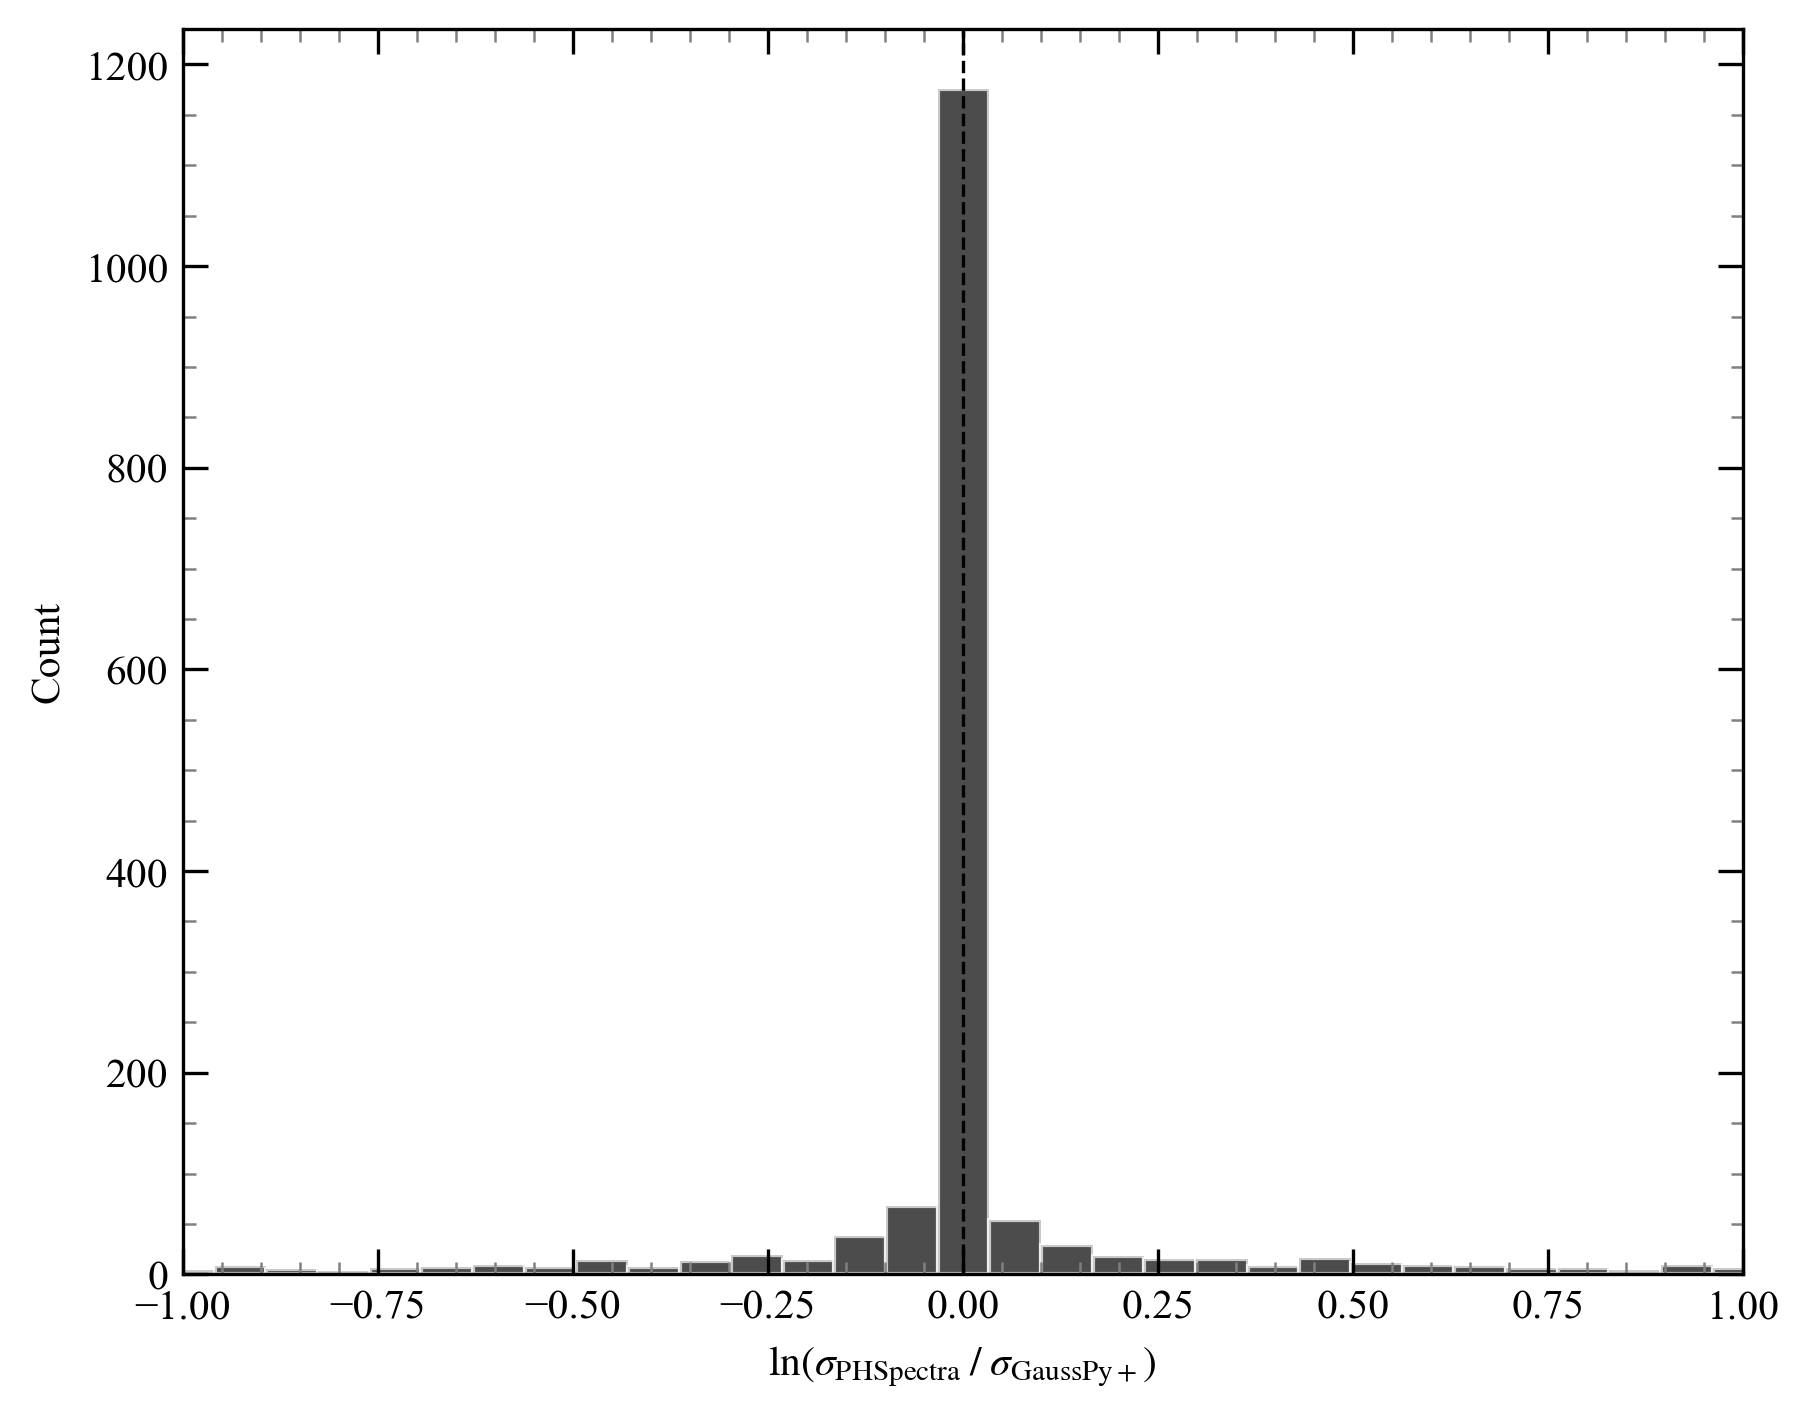
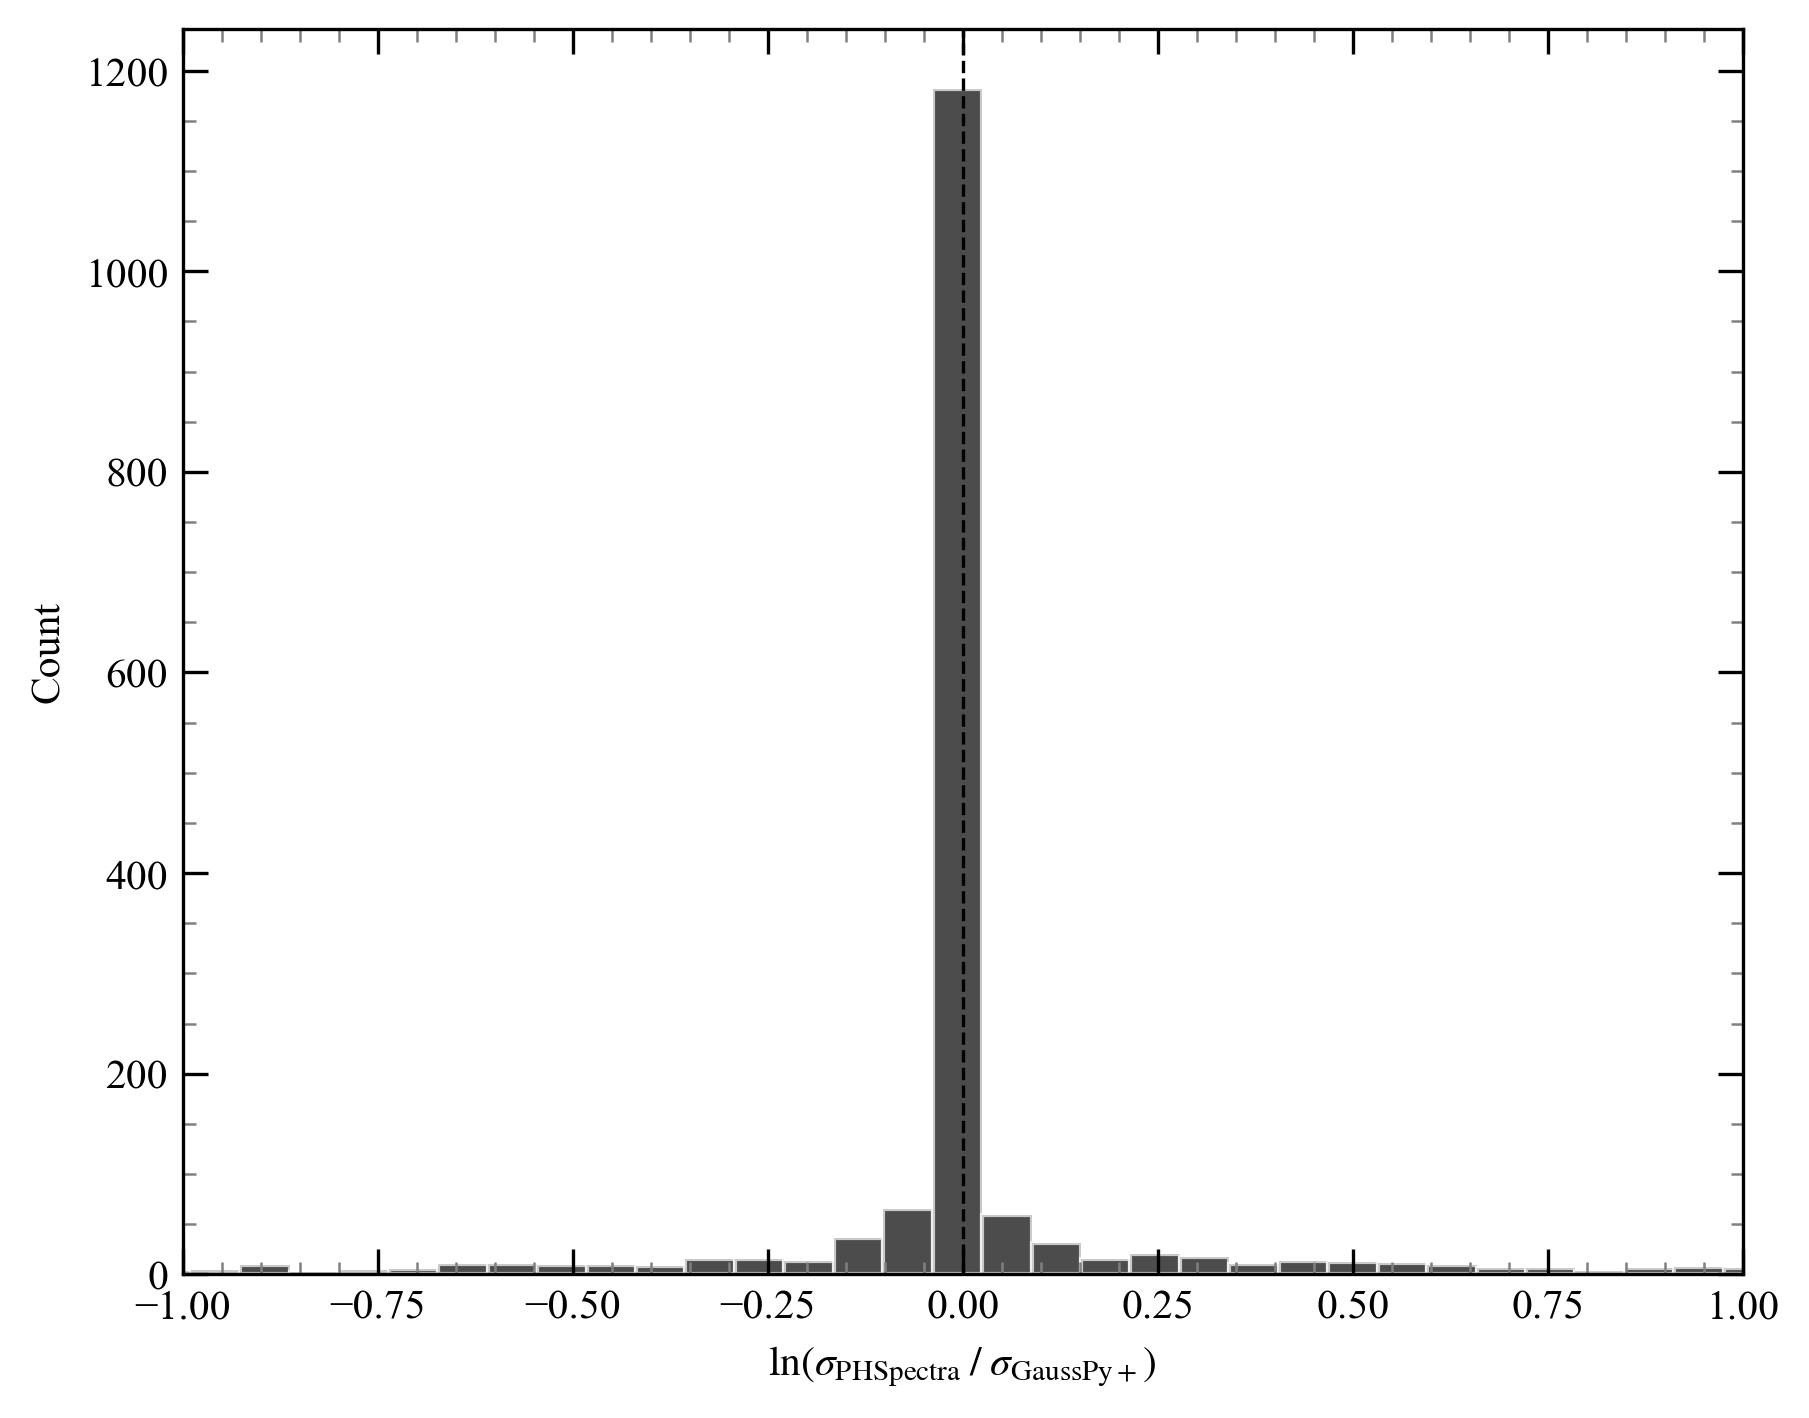
fix: set default beta to 3.8

diff --git a/packages/infrastructure/src/lib/processing.stack.ts b/packages/infrastructure/src/lib/processing.stack.ts
@@ -1,6 +1,7 @@
 import path = require('path')
 
 import * as cdk from 'aws-cdk-lib'
+import * as dynamodb from 'aws-cdk-lib/aws-dynamodb'
 import * as lambda from 'aws-cdk-lib/aws-lambda'
 import * as lambdaEventSources from 'aws-cdk-lib/aws-lambda-event-sources'
 import * as logs from 'aws-cdk-lib/aws-logs'
@@ -16,9 +17,17 @@ export interface ProcessingStackProps extends cdk.StackProps {
 
 export class ProcessingStack extends cdk.Stack {
   public readonly queue: sqs.Queue
+  public readonly table: dynamodb.Table
 
   constructor(scope: Construct, id: string, props: ProcessingStackProps) {
     super(scope, id, props)
+
+    this.table = new dynamodb.Table(this, 'RunsTable', {
+      tableName: `phspectra-${props.deploymentEnvironment}-runs`,
+      partitionKey: { name: 'run_id', type: dynamodb.AttributeType.STRING },
+      billingMode: dynamodb.BillingMode.PAY_PER_REQUEST,
+      removalPolicy: cdk.RemovalPolicy.DESTROY
+    })
 
     const deadLetterQueue = new sqs.Queue(this, 'DeadLetterQueue', {
       retentionPeriod: cdk.Duration.days(14)
@@ -49,7 +58,8 @@ export class ProcessingStack extends cdk.Stack {
       timeout: cdk.Duration.minutes(5),
       logGroup: workerLogGroup,
       environment: {
-        BUCKET_NAME: props.bucket.bucketName
+        BUCKET_NAME: props.bucket.bucketName,
+        TABLE_NAME: this.table.tableName
       }
     })
 
@@ -61,5 +71,6 @@ export class ProcessingStack extends cdk.Stack {
     )
 
     props.bucket.grantReadWrite(workerFn)
+    this.table.grant(workerFn, 'dynamodb:UpdateItem')
   }
 }

diff --git a/packages/infrastructure/src/lib/splitter.stack.ts b/packages/infrastructure/src/lib/splitter.stack.ts
@@ -1,6 +1,7 @@
 import path = require('path')
 
 import * as cdk from 'aws-cdk-lib'
+import * as dynamodb from 'aws-cdk-lib/aws-dynamodb'
 import * as events from 'aws-cdk-lib/aws-events'
 import * as targets from 'aws-cdk-lib/aws-events-targets'
 import * as lambda from 'aws-cdk-lib/aws-lambda'
@@ -14,6 +15,7 @@ export interface SplitterStackProps extends cdk.StackProps {
   deploymentEnvironment: DeploymentEnvironment
   bucket: s3.IBucket
   queue: sqs.IQueue
+  table: dynamodb.ITable
 }
 
 export class SplitterStack extends cdk.Stack {
@@ -40,12 +42,14 @@ export class SplitterStack extends cdk.Stack {
       logGroup: splitterLogGroup,
       environment: {
         BUCKET_NAME: props.bucket.bucketName,
-        QUEUE_URL: props.queue.queueUrl
+        QUEUE_URL: props.queue.queueUrl,
+        TABLE_NAME: props.table.tableName
       }
     })
 
     props.bucket.grantReadWrite(splitterFn)
     props.queue.grantSendMessages(splitterFn)
+    props.table.grant(splitterFn, 'dynamodb:PutItem')
 
     // Rule 1: FITS file uploaded to cubes/ -> auto-process with default beta
     new events.Rule(this, 'FitsUploadRule', {

diff --git a/packages/infrastructure/src/bin/index.ts b/packages/infrastructure/src/bin/index.ts
@@ -35,6 +35,7 @@ new SplitterStack(app, 'PHSSplitter', {
   deploymentEnvironment: env.ENVIRONMENT,
   bucket: dataLake.bucket,
   queue: processing.queue,
+  table: processing.table,
   env: cdkEnv
 })
 

diff --git a/packages/benchmarks/src/benchmarks/commands/ncomp_rms_plot.py b/packages/benchmarks/src/benchmarks/commands/ncomp_rms_plot.py
@@ -1,0 +1,164 @@
+"""``benchmarks ncomp-rms-plot`` -- N components vs residual RMS scatter.
+
+Reads saved comparison data and produces a two-panel (stacked) figure
+showing the number of fitted components vs residual RMS for phspectra
+and GaussPy+.
+"""
+
+from __future__ import annotations
+
+import json
+import os
+
+import click
+import numpy as np
+from benchmarks._console import console, err_console
+from benchmarks._constants import CACHE_DIR
+from benchmarks._plotting import configure_axes, docs_figure
+from matplotlib import pyplot as plt
+from matplotlib.axes import Axes
+from matplotlib.figure import Figure
+
+
+def _compute_rms_and_ncomp(
+    signals: np.ndarray,
+    data: dict,
+) -> tuple[np.ndarray, np.ndarray]:
+    """Compute per-spectrum residual RMS and component counts.
+
+    Parameters
+    ----------
+    signals : np.ndarray
+        Array of shape ``(n_spectra, n_channels)``.
+    data : dict
+        Loaded JSON with ``amplitudes_fit``, ``means_fit``,
+        ``stddevs_fit`` keys.
+
+    Returns
+    -------
+    tuple[np.ndarray, np.ndarray]
+        ``(rms, n_components)`` arrays of length ``n_spectra``.
+    """
+    n = len(signals)
+    x = np.arange(signals.shape[1], dtype=np.float64)
+    rms = np.empty(n)
+    ncomp = np.empty(n, dtype=int)
+    for i in range(n):
+        sig = signals[i]
+        model = np.zeros_like(sig)
+        for a, m, s in zip(
+            data["amplitudes_fit"][i],
+            data["means_fit"][i],
+            data["stddevs_fit"][i],
+        ):
+            model += a * np.exp(-0.5 * ((x - m) / s) ** 2)
+        rms[i] = np.sqrt(np.mean((sig - model) ** 2))
+        ncomp[i] = len(data["amplitudes_fit"][i])
+    return rms, ncomp
+
+
+def _annotate_panel(ax: Axes, rms: np.ndarray, ncomp: np.ndarray) -> None:
+    """Add mean-component annotations to the left and right of the threshold.
+
+    Parameters
+    ----------
+    ax : Axes
+        Target axes.
+    rms : np.ndarray
+        Residual RMS values.
+    ncomp : np.ndarray
+        Component counts.
+    """
+    lo = rms <= 0.2
+    hi = rms > 0.2
+    mean_lo = ncomp[lo].mean() if lo.sum() > 0 else 0
+    mean_hi = ncomp[hi].mean() if hi.sum() > 0 else 0
+    ax.text(
+        0.03,
+        0.95,
+        f"RMS $\\leq$ 0.2: $\\langle N \\rangle$ = {mean_lo:.1f}",
+        transform=ax.transAxes,
+        va="top",
+        ha="left",
+        fontsize=9,
+    )
+    ax.text(
+        0.97,
+        0.95,
+        f"RMS > 0.2: $\\langle N \\rangle$ = {mean_hi:.1f}",
+        transform=ax.transAxes,
+        va="top",
+        ha="right",
+        fontsize=9,
+    )
+
+
+@docs_figure("ncomp-vs-rms.png")
+def _build_ncomp_rms(
+    ph_rms: np.ndarray,
+    ph_ncomp: np.ndarray,
+    gp_rms: np.ndarray,
+    gp_ncomp: np.ndarray,
+) -> Figure:
+    """Build stacked scatter panels of N components vs residual RMS.
+
+    Parameters
+    ----------
+    ph_rms, ph_ncomp : np.ndarray
+        PHSpectra residual RMS and component counts.
+    gp_rms, gp_ncomp : np.ndarray
+        GaussPy+ residual RMS and component counts.
+
+    Returns
+    -------
+    Figure
+        Two-panel stacked matplotlib figure.
+    """
+    fig: Figure
+    fig, axes = plt.subplots(2, 1, figsize=(6, 5), sharex=True)
+    fig.subplots_adjust(left=0.12, right=0.95, bottom=0.11, top=0.95, hspace=0.12)
+
+    for ax, rms, ncomp, label in [
+        (axes[0], ph_rms, ph_ncomp, "PHSpectra"),
+        (axes[1], gp_rms, gp_ncomp, "GaussPy+"),
+    ]:
+        ax.scatter(rms, ncomp, s=10, alpha=0.5, color="0.3", edgecolors="none")
+        ax.axvline(0.2, color="k", linestyle="--", linewidth=1.5)
+        ax.set_ylabel(f"$N$ components ({label})")
+        ax.set_xlim(0.05, 0.40)
+        ax.set_ylim(-0.1, 20)
+        _annotate_panel(ax, rms, ncomp)
+        configure_axes(ax)
+
+    axes[1].set_xlabel("Residual RMS (K)")
+
+    return fig
+
+
+@click.command("ncomp-rms-plot")
+@click.option(
+    "--data-dir",
+    default=os.path.join(CACHE_DIR, "compare-docker"),
+    show_default=True,
+    help="Directory containing spectra.npz, results.json, and phspectra_results.json.",
+)
+def ncomp_rms_plot(data_dir: str) -> None:
+    """Generate N-components vs residual RMS scatter from saved comparison data."""
+    for name in ("spectra.npz", "phspectra_results.json", "results.json"):
+        if not os.path.exists(os.path.join(data_dir, name)):
+            err_console.print(f"ERROR: {name} not found in {data_dir}")
+            raise SystemExit(1)
+
+    console.print("Loading comparison data...", style="bold cyan")
+    signals = np.load(os.path.join(data_dir, "spectra.npz"))["signals"]
+    with open(os.path.join(data_dir, "phspectra_results.json"), encoding="utf-8") as f:
+        ph_data = json.load(f)
+    with open(os.path.join(data_dir, "results.json"), encoding="utf-8") as f:
+        gp_data = json.load(f)
+
+    ph_rms, ph_ncomp = _compute_rms_and_ncomp(signals, ph_data)
+    gp_rms, gp_ncomp = _compute_rms_and_ncomp(signals, gp_data)
+
+    console.print(f"  {len(signals)} spectra loaded from [blue]{data_dir}[/blue]")
+    _build_ncomp_rms(ph_rms, ph_ncomp, gp_rms, gp_ncomp)
+    console.print("Done.", style="bold green")

diff --git a/packages/benchmarks/src/benchmarks/commands/train_beta.py b/packages/benchmarks/src/benchmarks/commands/train_beta.py
@@ -40,9 +40,9 @@ from phspectra import fit_gaussians
     show_default=True,
     help="Directory with spectra.npz and results.json from ``compare``.",
 )
-@click.option("--beta-min", default=3.0, show_default=True)
-@click.option("--beta-max", default=6.0, show_default=True)
-@click.option("--beta-steps", default=13, show_default=True)
+@click.option("--beta-min", default=3.8, show_default=True)
+@click.option("--beta-max", default=4.5, show_default=True)
+@click.option("--beta-steps", default=8, show_default=True)
 def train_beta(data_dir: str, beta_min: float, beta_max: float, beta_steps: int) -> None:
     """Sweep beta values against GaussPy+ Docker decompositions."""
     output_dir = os.path.join(data_dir, "training-output")

diff --git a/packages/benchmarks/src/benchmarks/commands/inspect_pixel.py b/packages/benchmarks/src/benchmarks/commands/inspect_pixel.py
@@ -38,7 +38,7 @@ from phspectra import fit_gaussians
 )
 @click.option(
     "--betas",
-    default="3.50,3.75,4.0",
+    default="3.65,3.80,3.95",
     show_default=True,
     help="Comma-separated beta values.",
 )
@@ -145,7 +145,7 @@ def inspect_pixel(
     # Plot
     n_rows, n_cols = len(beta_list), len(mf_snr_min_list)
     fig, axes = plt.subplots(
-        n_rows, n_cols, figsize=(2.5 * n_cols, 2.0 * n_rows), sharex=True, sharey=True
+        n_rows, n_cols, figsize=(3.2 * n_cols, 2.6 * n_rows), sharex=True, sharey=True
     )
     fig.subplots_adjust(left=0.07, right=0.97, bottom=0.07, top=0.93, wspace=0.05, hspace=0.05)
     if n_rows == 1 and n_cols == 1:

diff --git a/packages/benchmarks/src/benchmarks/cli.py b/packages/benchmarks/src/benchmarks/cli.py
@@ -11,6 +11,7 @@ from benchmarks.commands.performance import performance, performance_plot
 from benchmarks.commands.synthetic import synthetic
 from benchmarks.commands.train_beta import train_beta
 from benchmarks.commands.persistence_plot import persistence_plot
+from benchmarks.commands.ncomp_rms_plot import ncomp_rms_plot
 from benchmarks.commands.survey_map import survey_map
 
 
@@ -28,4 +29,5 @@ main.add_command(performance)
 main.add_command(performance_plot)
 main.add_command(synthetic)
 main.add_command(persistence_plot)
+main.add_command(ncomp_rms_plot)
 main.add_command(survey_map)

diff --git a/packages/benchmarks/src/benchmarks/commands/compare_plot.py b/packages/benchmarks/src/benchmarks/commands/compare_plot.py
@@ -298,7 +298,7 @@ def _build_rms_scatter(results: list[ComparisonResult]) -> Figure:
     lim = max(ph_rms_arr.max(), gp_rms_arr.max()) * 1.05
     ax.plot([0, lim], [0, lim], "k--", linewidth=0.8, alpha=0.5)
     ax.set_xlabel("GaussPy+ RMS (K)")
-    ax.set_ylabel("phspectra RMS (K)")
+    ax.set_ylabel("PHSpectra RMS (K)")
     ax.set_aspect("equal")
     ax.legend(
         [f"PH lower: {n_ph_wins}/{n_select}"],

diff --git a/packages/infrastructure/lambda/splitter/handler.py b/packages/infrastructure/lambda/splitter/handler.py
@@ -18,7 +18,7 @@ sqs = boto3.client("sqs")
 BUCKET = os.environ["BUCKET_NAME"]
 QUEUE_URL = os.environ["QUEUE_URL"]
 CHUNK_SIZE = 500
-DEFAULT_BETA = 4.0
+DEFAULT_BETA = 3.8
 
 
 def handler(event: dict[str, object], context: LambdaContext) -> dict[str, object]:

diff --git a/packages/phspectra/src/phspectra/decompose.py b/packages/phspectra/src/phspectra/decompose.py
@@ -21,7 +21,7 @@ __all__ = [
 ]
 
 #: Default persistence threshold in units of noise sigma.
-DEFAULT_BETA: float = 4.0
+DEFAULT_BETA: float = 3.8
 
 
 # ---------------------------------------------------------------------------

diff --git a/packages/benchmarks/src/benchmarks/_constants.py b/packages/benchmarks/src/benchmarks/_constants.py
@@ -30,7 +30,7 @@ DOCKER_IMAGE = "phspectra-gausspyplus-bench"
 
 # Default decomposition parameters
 
-DEFAULT_BETA = 4.0
+DEFAULT_BETA = 3.8
 DEFAULT_SEED = 2026_02_12
 DEFAULT_N_SPECTRA = 400
 DEFAULT_MAX_COMPONENTS = 10

diff --git a/packages/docs/docs/results/beta.md b/packages/docs/docs/results/beta.md
@@ -31,7 +31,7 @@ The real-data benchmark above compares phspectra against GaussPy+ (another algor
 
 All spectra use GRS-realistic parameters: 424 channels with additive Gaussian noise at $\sigma = 0.13$ K. Because the true components are known exactly, $F_1$ measures *true accuracy* rather than agreement with another algorithm.
 
-For each spectrum we sweep $\beta$ from 3.8 to 4.5, decompose with phspectra, and score using Hungarian matching with the [Lindner et al. (2015)](https://arxiv.org/abs/1409.2840) criteria.
+For each spectrum we sweep $\beta$ from 3.8 to 4.5, decompose with PHSpectra, and score using Hungarian matching with the [Lindner et al. (2015)](https://arxiv.org/abs/1409.2840) criteria.
 
 ```python
 uv run benchmarks synthetic --n-per-category 50  # around 20 mins
@@ -75,11 +75,17 @@ This is a known structural limitation of persistence-based peak detection for cl
 
 ### Real data: beta training
 
+```python
+uv run benchmarks download
+uv run benchmarks compare --n-spectra 1000 --extra-pixels 31,40  # takes around 15 mins
+uv run train-beta  # around 40 mins
+```
+
 Sweeping $\beta$ from 3.8 to 4.5 on 1000 GRS spectra shows a nearly flat $F_1$ curve:
 
 ![Beta training on GRS spectra](/img/results/f1-beta-sweep.png)
 
-The optimal $\beta = 4.0$ achieves $F_1$ = 0.847 against GaussPy+ reference decompositions. However, the variation across the entire sweep is only $\Delta F_1 \approx 0.01$ &mdash; the algorithm is remarkably stable.
+Considering these results and the ones from the previous section, I decided to set the default $\beta = 3.8$. However, the variation across the entire sweep is only $\Delta F_1 \approx 0.01$ &mdash; the algorithm is remarkably stable.
 
 Note that the $F_1$ ceiling here does not reflect a limitation of phspectra &mdash; it reflects *disagreement between two different decomposition strategies*. See the [Accuracy](accuracy) section for a detailed analysis of where and why the decompositions differ.
 
@@ -89,10 +95,10 @@ Note that the $F_1$ ceiling here does not reflect a limitation of phspectra &mda
 
 GaussPy requires a trained smoothing parameter $\alpha$ that is sensitive to the noise properties and spectral structure of each survey. The training procedure ([Lindner et al. 2015](https://arxiv.org/abs/1409.2840)) requires labeled decompositions and can produce different optimal values for different regions of the same survey.
 
-In contrast, phspectra's $\beta$ parameter is:
+In contrast, PHSpectra's $\beta$ parameter is:
 
 - **Survey-agnostic**: values in the range $\beta = 3.8$&ndash;$4.0$ work well across both real and synthetic data with fundamentally different noise structures.
 - **Robust to perturbation**: performance degrades gracefully rather than collapsing at non-optimal values. There is no cliff &mdash; the $F_1$ curve is flat.
-- **Physically interpretable**: $\beta$ directly controls the minimum significance (in $\sigma$) for a peak to be considered real. A value of $\beta = 4.0$ means "reject anything less significant than a $4\sigma$ fluctuation," which is a natural and intuitive threshold.
+- **Physically interpretable**: $\beta$ directly controls the minimum significance (in $\sigma$) for a peak to be considered real. A value of $\beta = 3.8$ means "reject anything less significant than a $3.8\sigma$ fluctuation," which is a natural and intuitive threshold.
 
-The default value of $\beta = 4.0$ is recommended for general use.
+The default value of $\beta = 3.8$ is recommended for general use.
